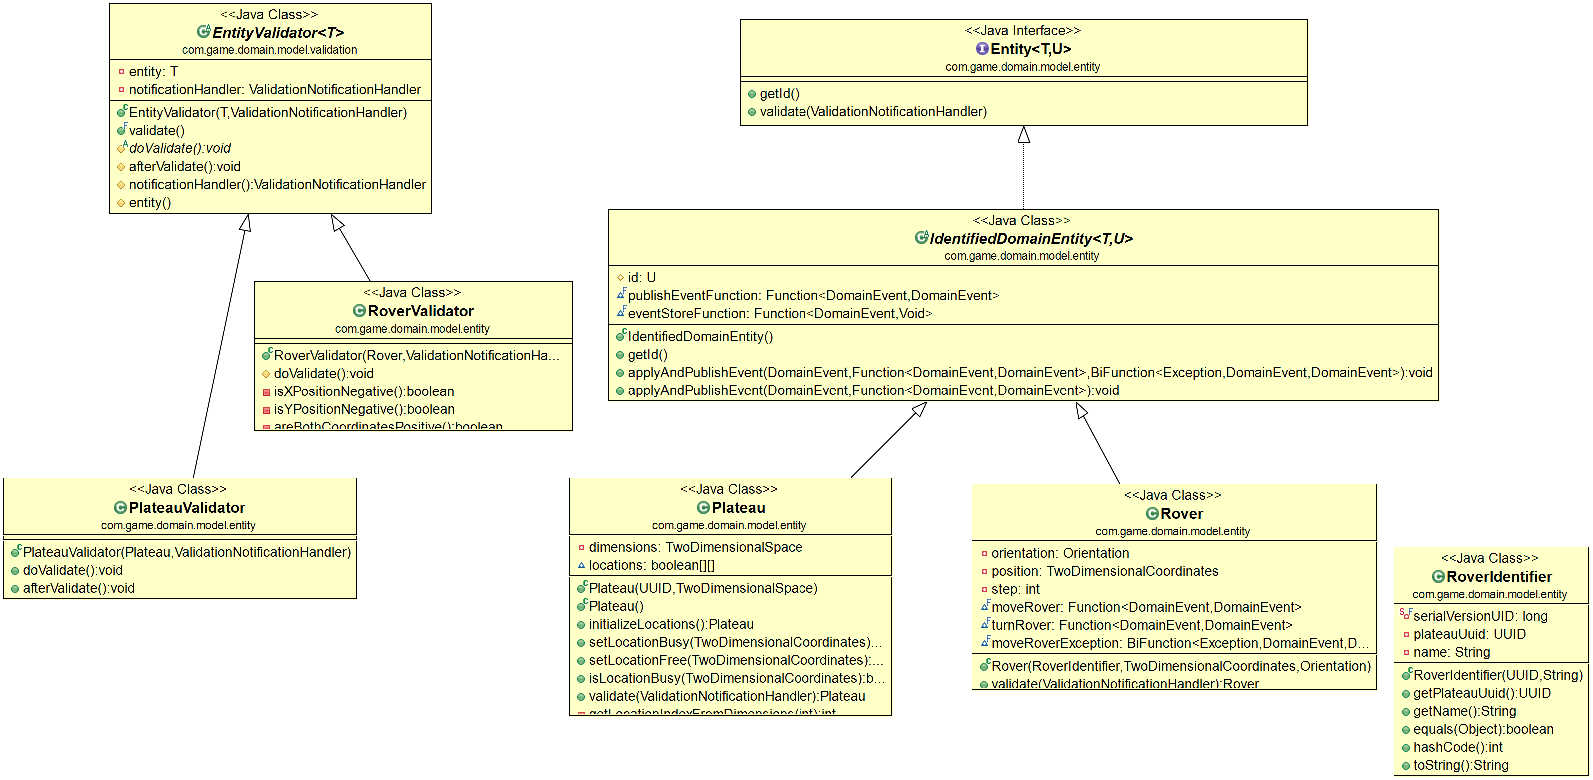
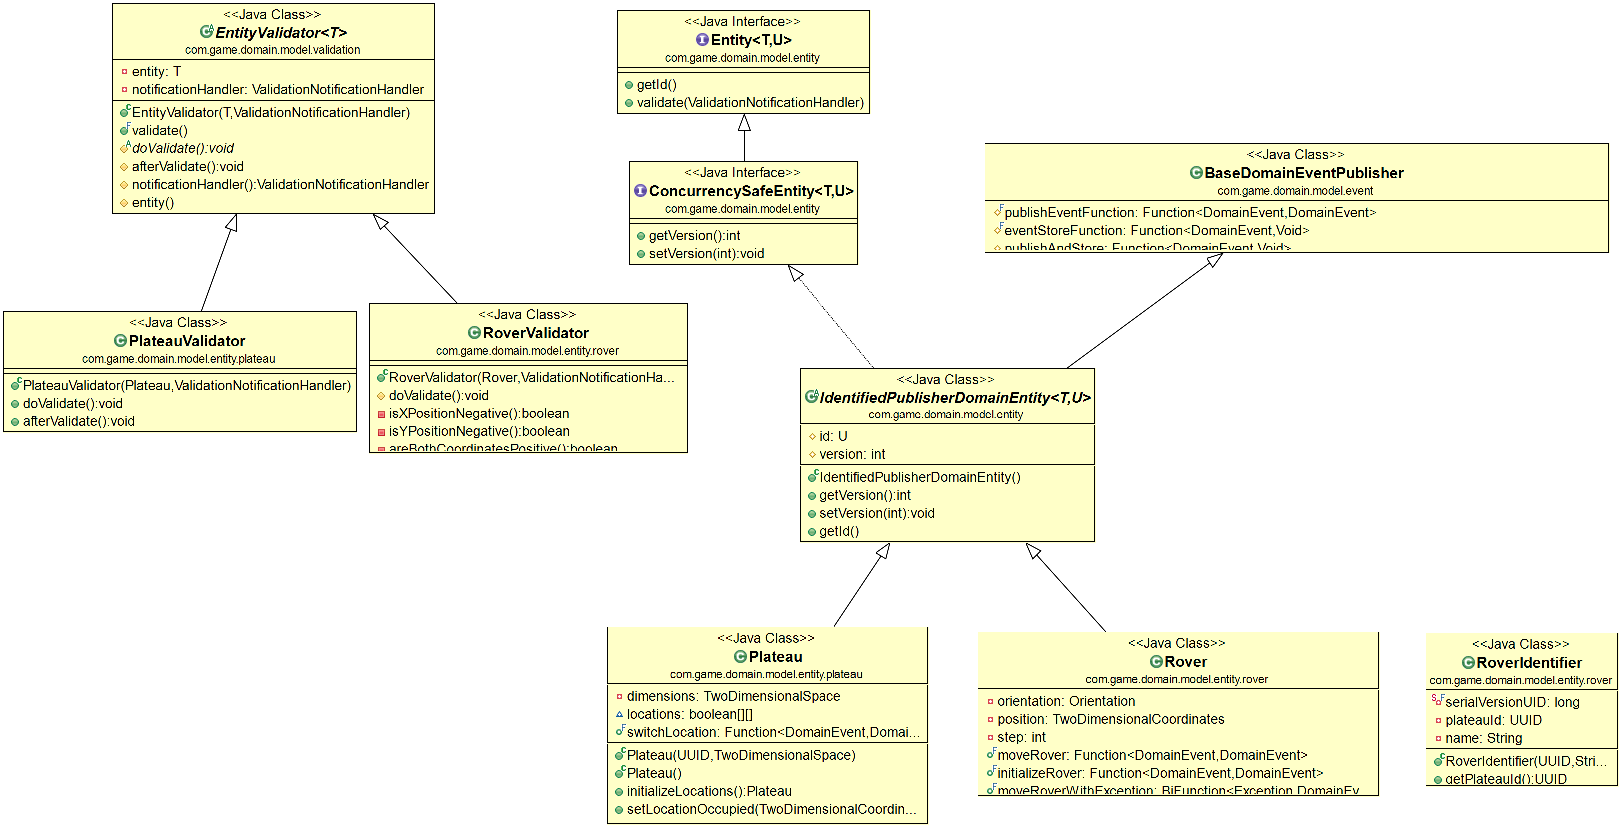
update entities diagram

diff --git a/README.md b/README.md
@@ -46,12 +46,17 @@ Furthemore, in addition to the initial requirements, this implementation offers 
 
 You should see something similar to below extract:
 
-Not only are we printing out the final position of both rovers, but we are showing the state of the in-memory and persistent plateau as well, and more importantly all the stored `Domain Events` which captured any occurrence of something that happened in the `Model`.
+Not only are we printing out the final position of both rover with their respective version number ( the number of actions that each rover has undergone)
+
+```java
+Persistent Rover: Rover [ROVER_1] attached to Plateau [c831f913-73dc-4c6d-b2dc-45f922ac5f42] with [Coordinates [abscissa = 1, ordinate = 3]] and [Orientation [NORTH]] and version [9]
+Persistent Rover: Rover [ROVER_2] attached to Plateau [c831f913-73dc-4c6d-b2dc-45f922ac5f42] with [Coordinates [abscissa = 5, ordinate = 1]] and [Orientation [EAST]] and version [10]
+```
+
+but we are showing the state of the in-memory and persistent plateau as well, and more importantly all the stored `Domain Events` which captured any occurrence of something that happened in the `Model`.
 
 
 ```java
-Persistent Rover: Rover [ROVER_1] attached to Plateau [1fb95123-8fbf-4da2-979e-6bbca298e1b1] with [Coordinates [abscissa = 1, ordinate = 3]] and [Orientation [NORTH]]
-Persistent Rover: Rover [ROVER_2] attached to Plateau [1fb95123-8fbf-4da2-979e-6bbca298e1b1] with [Coordinates [abscissa = 5, ordinate = 1]] and [Orientation [EAST]]
 In-Memory Plateau with coordinates 1,3 busy ? [true]
 In-Memory Plateau with coordinates 5,1 busy ? [true]
 Persistent Plateau with coordinates 1,3 busy ? [true]
@@ -264,13 +269,27 @@ Evidently, we can immediately identify a [Rover](src/main/java/com/game/domain/m
 
 Concerning the Plateau, things become a little bit more interesting. If we had stuck to the requirements, then only one Plateau would have been necessary and thus we would not have necessarily modeled it as an `Entity`. However, as we have decided that moving rovers over multiple Plateaus at the same time was allowed, we have no choice but to model our [Plateau](src/main/java/com/game/domain/model/entity/plateau/Plateau.java) as an `Entity` as well.
 
-As identifiable `Entities`, both [Rover](src/main/java/com/game/domain/model/entity/rover/Rover.java) and  [Plateau](src/main/java/com/game/domain/model/entity/plateau/Plateau.java) inherits from [IdentifiedPublisherDomainEntity](src/main/java/com/game/domain/model/entity/IdentifiedPublisherDomainEntity.java), which itself implements the interface [Entity](src/main/java/com/game/domain/model/entity/Entity.java)
+As identifiable `Entities`, both [Rover](src/main/java/com/game/domain/model/entity/rover/Rover.java) and  [Plateau](src/main/java/com/game/domain/model/entity/plateau/Plateau.java) inherits from [IdentifiedPublisherDomainEntity](src/main/java/com/game/domain/model/entity/IdentifiedPublisherDomainEntity.java), which itself implements the interface [Entity](src/main/java/com/game/domain/model/entity/Entity.java).
+
+Actually, it inherits indirectly from `Entity` via  [ConcurrencySafeEntity](src/main/java/com/game/domain/model/entity/ConcurrencySafeEntity.java) interface but will dig into this subject later on in the section dedicated to concurrency and optimistic locking. 
 
 
  ```java
-public abstract class IdentifiedPublisherDomainEntity<T, U> extends BaseDomainEventPublisher implements Entity<T, U> {
+public abstract class IdentifiedPublisherDomainEntity<T, U> extends BaseDomainEventPublisher implements ConcurrencySafeEntity<T, U> {
 
 	protected U id;
+	
+	protected int version;
+
+	@Override
+	public int getVersion() {
+		return version;
+	}
+	
+	@Override
+	public void setVersion(int version) {
+		this.version = version;
+	}
 
 	@Override
 	public U getId() {
@@ -830,7 +849,7 @@ For example, we could  design the [RoverMovedEvent](src/main/java/com/game/domai
 
 public class RoverMovedEvent implements DomainEvent {
 
-	private RoverIdentifier roverId;
+	private RoverIdentifierDto roverId;
 
 	TwoDimensionalCoordinates previousPosition;
 
@@ -852,27 +871,33 @@ In this example, for the sake of simplicity, all registered subscribers execute 
 
 **Publish/Subscribe**
 
-Below is the `Publish/Subscribe` [DomainEventPublisher](src/main/java/com/game/domain/model/event/DomainEventPublisher.java) used in our Rover application. Since every incoming request from users of the system is handled on a separated dedicated thread (please remind yourself that we have extended the basic requirements to allow many distinct clients to send commands separately), we divide subscribers per thread. So the two `ThreadLocal` variables, `subscribers` and `publishing`, are allocated per thread. 
+Below is the `Publish/Subscribe` [DomainEventPublisherSubscriber](src/main/java/com/game/domain/model/event/DomainEventPublisherSubscriber.java) used in our Rover application. Since every incoming request from users of the system is handled on a separated dedicated thread (please remind yourself that we have extended the basic requirements to allow many distinct clients to send commands separately), we divide subscribers per thread. So the two `ThreadLocal` variables, `subscribers` and `publishing`, are allocated per thread. 
 
 
 ```java
 
-public class DomainEventPublisher {
+/**
+ * Observer to publish/subscribe {@link DomainEvent}
+ *
+ */
+public class DomainEventPublisherSubscriber {
 
+	@SuppressWarnings("rawtypes")
 	private static final ThreadLocal<List> subscribers = new ThreadLocal<>();
 
 	private static final ThreadLocal<Boolean> publishing = new ThreadLocal<>();
 
-	public static DomainEventPublisher instance() {
-		return new DomainEventPublisher();
+	public static DomainEventPublisherSubscriber instance() {
+		return new DomainEventPublisherSubscriber();
 	}
 
+	@SuppressWarnings("unchecked")
 	public <T extends DomainEvent> void publish(final T domainEvent) {
 		if (null !=publishing.get() && publishing.get()) return;
 
 		try {
 			publishing.set(Boolean.TRUE);
-			List<DomainEventSubscriber<T>> registeredSubscribers = subscribers.get();
+			List<DomainEventSubscriber<T,String>> registeredSubscribers = subscribers.get();
 			if (registeredSubscribers != null) {
 				Class<?> eventType = domainEvent.getClass();
 				registeredSubscribers.forEach(subscriber -> {
@@ -887,29 +912,26 @@ public class DomainEventPublisher {
 	}
 
 	
-	public <T extends DomainEvent> void subscribe(DomainEventSubscriber<T> subscriber) {
+	@SuppressWarnings("unchecked")
+	public <T extends DomainEvent> void subscribe(DomainEventSubscriber<T, String> subscriber) {
 		if (null !=publishing.get() && publishing.get()) return;
 		
-		List<DomainEventSubscriber<T>> registeredSubscribers = subscribers.get();
+		List<DomainEventSubscriber<T,String>> registeredSubscribers = subscribers.get();
 		if (registeredSubscribers == null) {
-			registeredSubscribers = new ArrayList<DomainEventSubscriber<T>>();
+			registeredSubscribers = new ArrayList<DomainEventSubscriber<T,String>>();
 			subscribers.set(registeredSubscribers);
 		}
+		if (!registeredSubscribers.contains(subscriber))
 		registeredSubscribers.add(subscriber);
 	}
 
-	private <T extends DomainEvent> void handleEvent(DomainEventSubscriber<T> subscriber, Class<?> eventType, T domainEvent) {
+	private <T extends DomainEvent> void handleEvent(DomainEventSubscriber<T,String> subscriber, Class<?> eventType, T domainEvent) {
 		Class<?> subscribedTo = subscriber.subscribedToEventType();
-		if (subscribedTo == eventType || subscribedTo == DomainEvent.class) {
+		if (subscribedTo == eventType) {
 			subscriber.handleEvent(domainEvent);
 		}
 
-	}
-	
-	public void clear() {
-		subscribers.remove();
-	}
-	
+	}	
 ```
 
 **Publishing**
